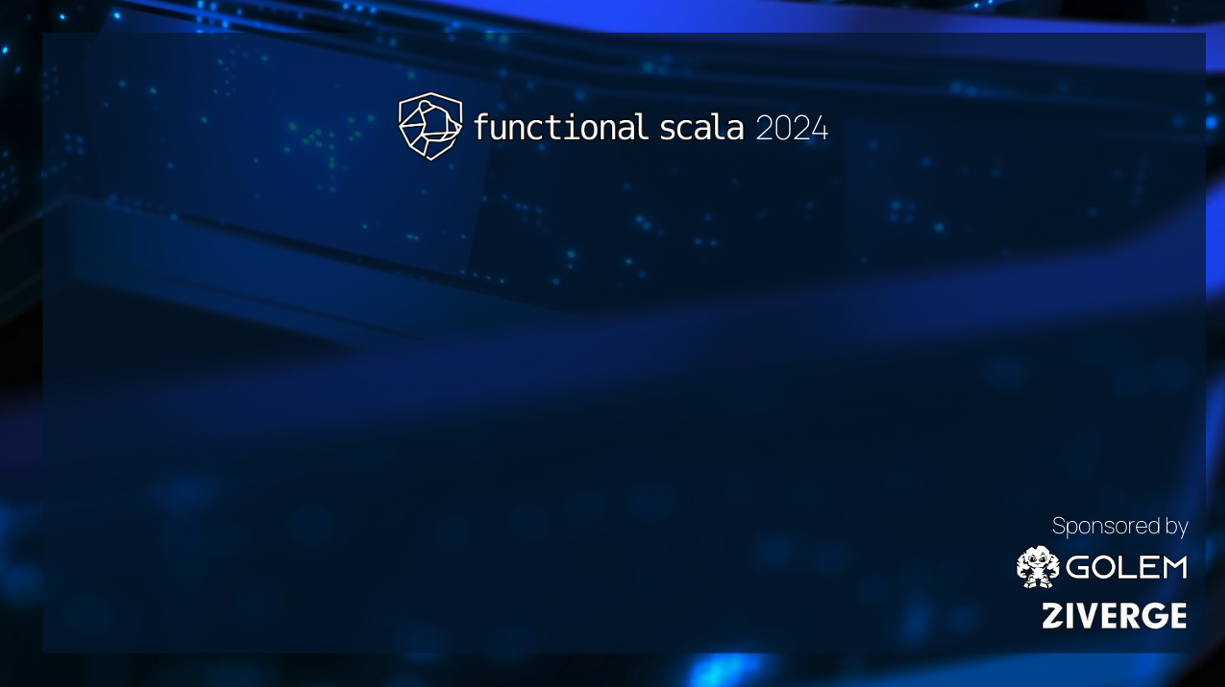
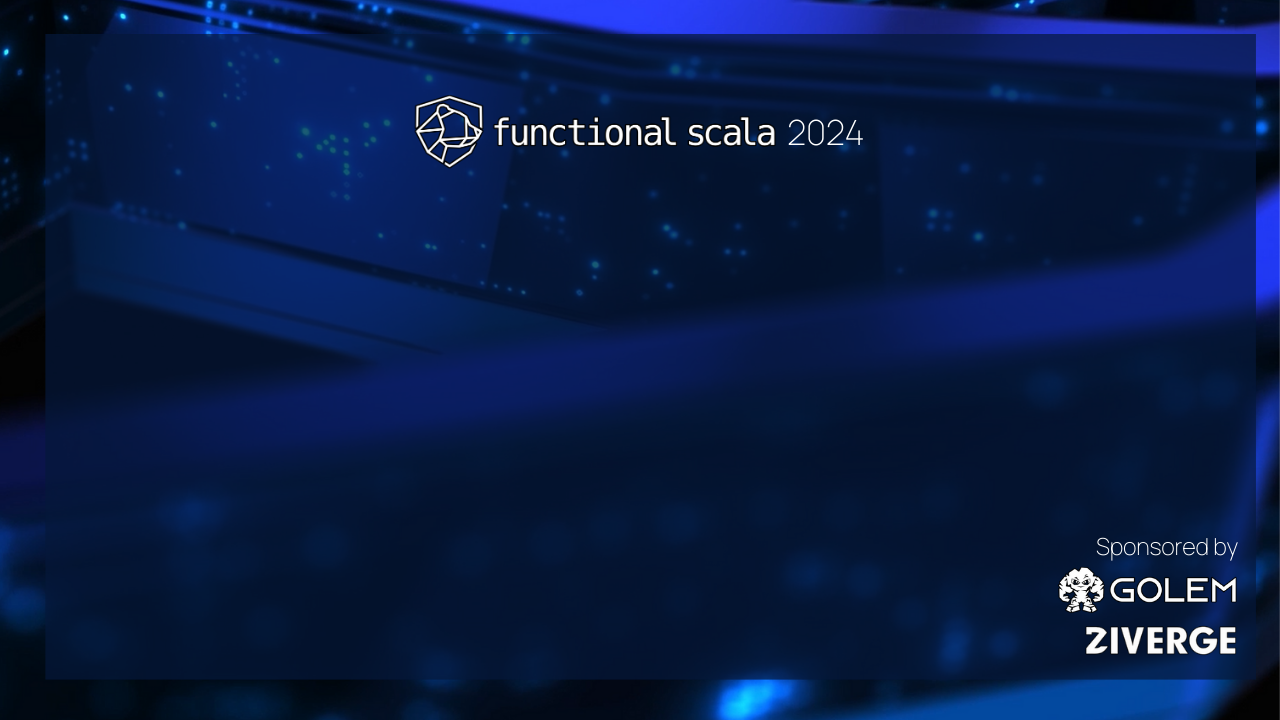
Improve

diff --git a/global-bottom.vue b/global-bottom.vue
@@ -1,5 +1,10 @@
 <template>
-    <footer v-if="$nav.currentPage !== 1 && $nav.hasNext" class="absolute bottom-0 left-12 right-0 p-2 z-50">
+    <footer v-if="$nav.currentPage !== 1 && $nav.hasNext" class="absolute bottom-0 left-6 right-0 p-2 z-50">
+        <SlideCurrentNo /> /
+        <SlidesTotal />
+    </footer>
+
+    <footer v-if="$nav.currentPage !== 1 && $nav.hasNext && $nav.currentLayout !== 'image-right'" class="absolute bottom-0 right-6 p-2 z-50">
         <LightOrDark>
             <template #dark>
                 <img src="/functionalScalaIconWhite.png" class="h-10" />
@@ -8,10 +13,5 @@
                 <img src="/functionalScalaIcon.png" class="h-10" />
             </template>
         </LightOrDark>
-    </footer>
-
-    <footer v-if="$nav.currentPage !== 1 && $nav.hasNext && $nav.currentLayout !== 'image-right'" class="absolute bottom-0 right-12 p-2 z-50">
-        <SlideCurrentNo /> /
-        <SlidesTotal />
     </footer>
 </template>

diff --git a/slides.md b/slides.md
@@ -34,7 +34,7 @@ transition: slide-left
 
 <style>
   .slidev-layout.cover {
-      @apply !bg-[url('/background.png')] pl-20 pt-20
+      @apply !bg-[url('/background2.png')] pl-20 pt-20
   }
 </style>
 
